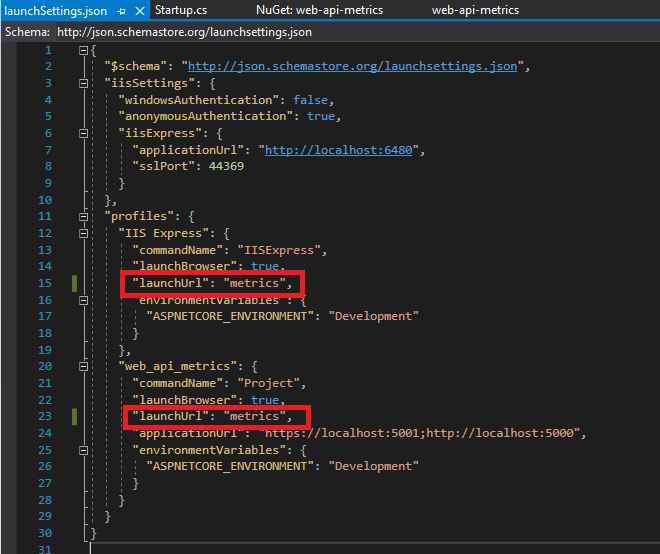
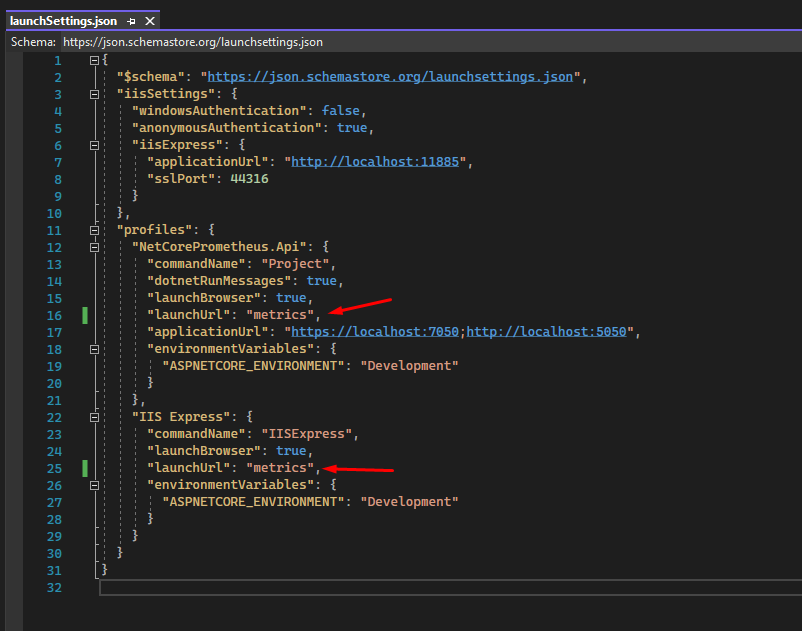
README

Changed region(s): [[0.0, 0.0, 1.0, 1.0]]

diff --git a/src/NetCorePrometheus.Api/Setup/PrometheusConfig.cs b/src/NetCorePrometheus.Api/Setup/PrometheusConfig.cs
@@ -1,0 +1,30 @@
+using Prometheus;
+
+namespace NetCorePrometheus.Api.Setup
+{
+    public static class PrometheusConfig
+    {
+        public static IApplicationBuilder UsePrometheusConfiguration(this IApplicationBuilder app)
+        {
+            // Custom Metrics to count requests for each endpoint and the method
+            var counter = Metrics.CreateCounter("webapimetric", "Counts requests to the WebApiMetrics API endpoints",
+                new CounterConfiguration
+                {
+                    LabelNames = new[] { "method", "endpoint" }
+                });
+
+            app.Use((context, next) =>
+            {
+                counter.WithLabels(context.Request.Method, context.Request.Path).Inc();
+                return next();
+            });
+
+            // Use the prometheus middleware
+            app.UseMetricServer();
+            app.UseHttpMetrics();
+
+            return app;
+
+        }
+    }
+}

diff --git a/src/NetCorePrometheus.Api/Program.cs b/src/NetCorePrometheus.Api/Program.cs
@@ -1,3 +1,5 @@
+using NetCorePrometheus.Api.Setup;
+
 var builder = WebApplication.CreateBuilder(args);
 
 // Add services to the container.
@@ -15,6 +17,8 @@ if (app.Environment.IsDevelopment())
     app.UseSwagger();
     app.UseSwaggerUI();
 }
+
+app.UsePrometheusConfiguration();
 
 app.UseHttpsRedirection();
 

diff --git a/README.md b/README.md
@@ -123,15 +123,52 @@ Após a instalação, poderemos ver a biblioteca nas dependências do projeto.
 
 <img src="images/img_007.png" alt="alt text" title="Title" />
 
-Agora iremos incluir a configuração do Prometheus na classe Startup.cs
+Agora iremos incluir a configuração do Prometheus na classe 'Program.cs'. Portanto, vamos criar uma nova classe denominada `PrometheusConfig.cs` com a seguinte estrutura:
 
-<img src="images/img_008.png" alt="alt text" title="Title" />
+```csharp
+    public static class PrometheusConfig
+    {
+        public static IApplicationBuilder UsePrometheusConfiguration(this IApplicationBuilder app)
+        {
+            // Custom Metrics to count requests for each endpoint and the method
+            var counter = Metrics.CreateCounter("webapimetric", "Counts requests to the WebApiMetrics API endpoints",
+                new CounterConfiguration
+                {
+                    LabelNames = new[] { "method", "endpoint" }
+                });
+
+            app.Use((context, next) =>
+            {
+                counter.WithLabels(context.Request.Method, context.Request.Path).Inc();
+                return next();
+            });
+
+            // Use the prometheus middleware
+            app.UseMetricServer();
+            app.UseHttpMetrics();
+
+            return app;
+
+        }
+    }
+```
+
+Na classe `Program.cs`, iremos adicionar a chamada da classe recém criada antes de HttpsRedirection:
+
+```csharp
+...
+app.UsePrometheusConfiguration(); // Configuração do Prometheus
+app.UseHttpsRedirection();
+...
+
+```
+
 
 O parte da configuração customizada irá nos ajudar a gerar informações de todas as requisições que nossas controllers irão receber.
 
 <img src="images/img_009.png" alt="alt text" title="Title" />
 
-Mude o launch do projeto para web_api_metrics
+Mude o launch do projeto para NetCorePrometheus.Api
 
 <img src="images/img_010.png" alt="alt text" title="Title" />
 
@@ -142,6 +179,8 @@ Uma última configuração na API, no arquivo launchSettings.json, modifique o v
 Após essa última configuração, ao executarmos a aplicação pressionando “F5” poderemos ver o endpoint “/metrics” que a biblioteca do Prometheus criou para monitorar as informações da nossa API..
 
 <img src="images/img_011.png" alt="alt text" title="Title" />
+
+Muito bem, neste momento, temos nossa api devidamente configurada para gerar suas métricas.
 
 
 ## Como posso contribuir?
